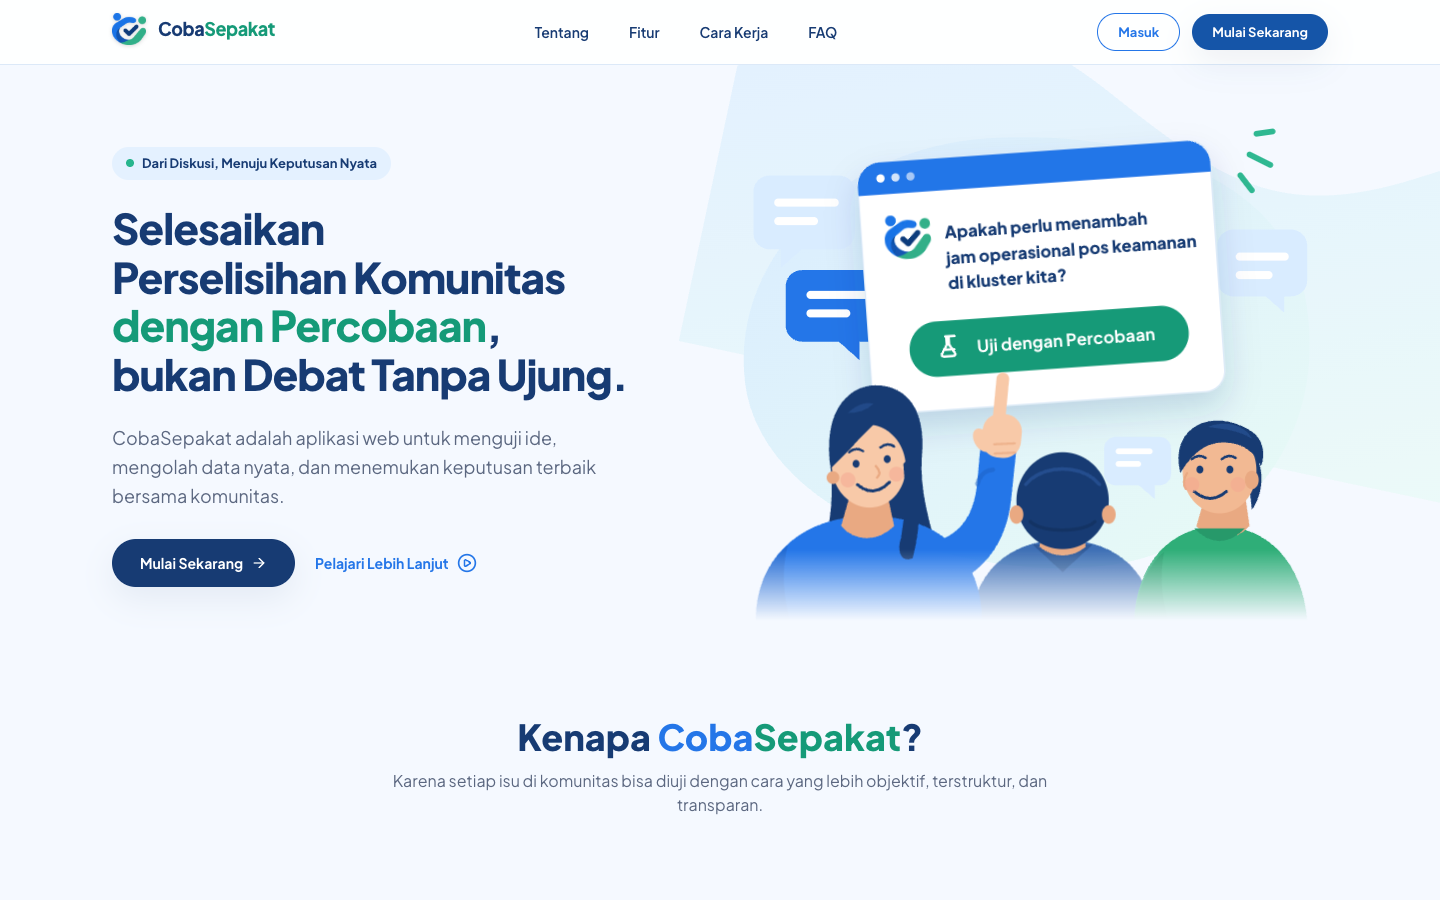
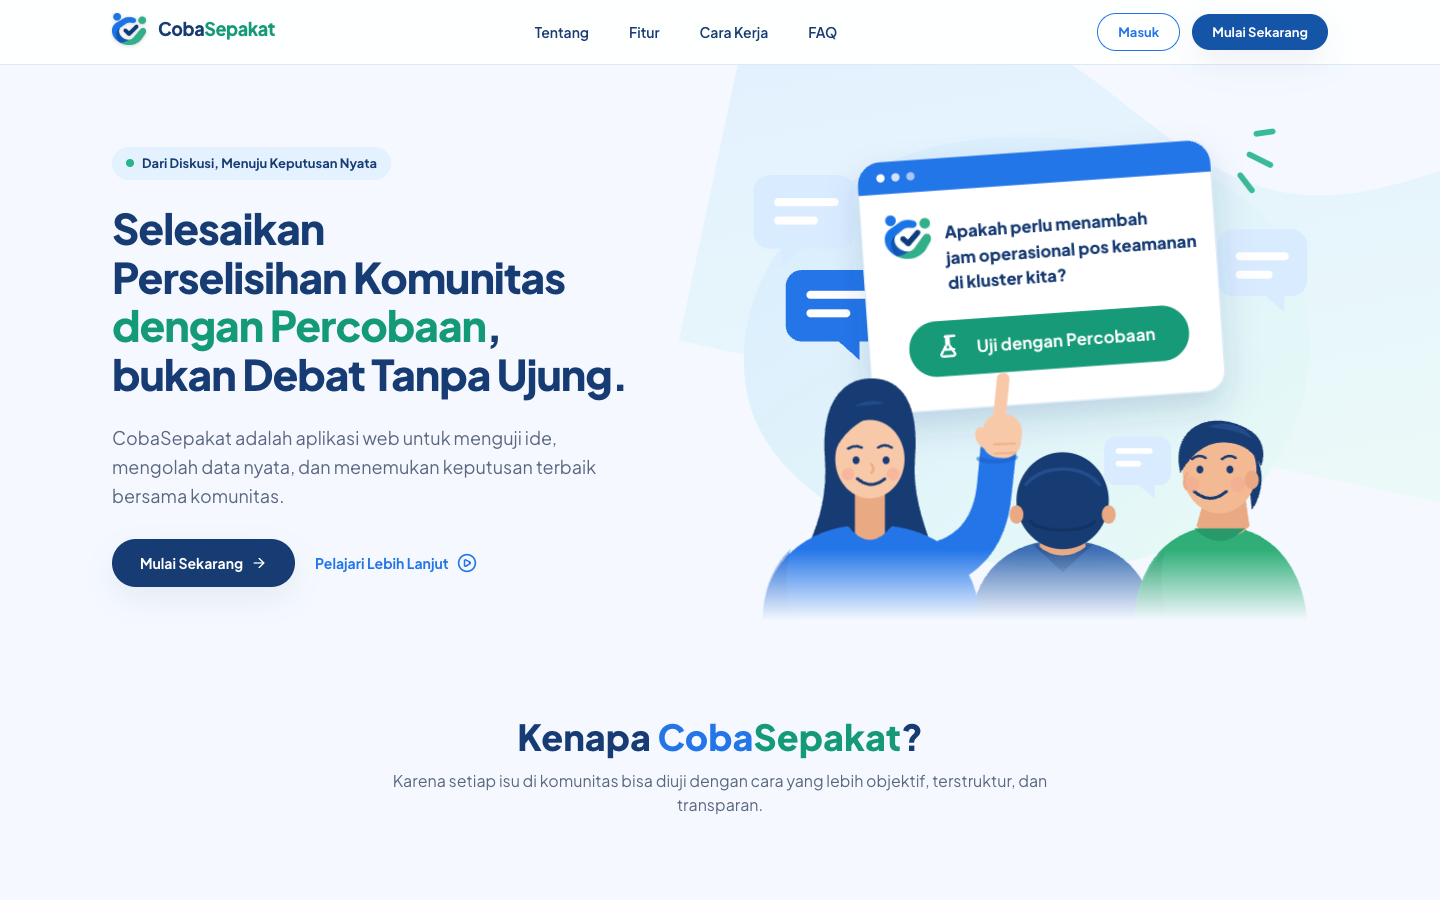
feat: gambar ulang ilustrasi cewek hero dan beri warna pada header README

diff --git a/src/components/company/HeroIllustration.tsx b/src/components/company/HeroIllustration.tsx
@@ -133,13 +133,12 @@ export const HeroIllustration: React.FC<{ className?: string }> = ({ className =
 
       {/* ── Woman (left): long side-parted hair, pointing up at the screen ── */}
       <g>
-        {/* back hair: one soft silhouette that tapers behind the shoulders */}
-        <path d="M88 300C84 256 106 236 128 236c26 0 44 20 40 62-2 28 6 56 16 90H80c10-34 12-60 8-88Z" fill={NAVY} />
-        {/* torso with a rounded neckline */}
-        <path d="M24 440c0-52 36-86 86-90h26c52 4 84 38 84 90Z" fill="#2476E8" />
-        <path d="M24 440c0-28 10-50 28-66-6 22-4 46 2 66Z" fill="#1B5FC4" opacity=".55" />
-        {/* neck */}
-        <path d="M106 330h32l6 28c-14 14-34 14-46 0Z" fill={SKIN_SHADE} />
+        {/* back hair: falls behind the shoulders */}
+        <path d="M84 300C80 250 100 230 124 230c26 0 42 20 38 70-2 28 6 52 14 74H70c10-22 16-46 14-74Z" fill={NAVY} />
+        {/* neck, then the torso with a scooped neckline over it */}
+        <path d="M110 322h26v50h-26Z" fill={SKIN_SHADE} />
+        <path d="M30 440c0-46 32-76 74-82q19 24 38 0c46 6 76 36 76 82Z" fill="#2476E8" />
+        <path d="M30 440c0-26 8-46 24-62-5 20-4 42 2 62Z" fill="#1B5FC4" opacity=".5" />
         {/* raised arm: sleeve grows out of the shoulder */}
         <motion.g
           style={{ transformBox: 'fill-box', transformOrigin: '0% 100%' }}
@@ -147,30 +146,26 @@ export const HeroIllustration: React.FC<{ className?: string }> = ({ className =
           transition={{ duration: 2.6, repeat: Infinity, ease: 'easeInOut' }}
         >
           <path d="M168 372c30-4 44-22 48-52l4-30c1-9 8-14 17-13 9 1 15 8 14 17l-6 40c-6 46-36 76-80 78Z" fill="#2476E8" />
-          <path d="M216 322c2-8 8-12 14-12" fill="none" stroke="#1B5FC4" strokeWidth="4" strokeLinecap="round" opacity=".5" />
-          {/* hand: curled fingers + pointing index + thumb */}
+          <path d="M218 300c8 4 24 4 32 0" fill="none" stroke="#1B5FC4" strokeWidth="4" strokeLinecap="round" opacity=".55" />
+          {/* hand: palm, curled fingers, pointing index, thumb */}
           <rect x="222" y="262" width="34" height="38" rx="15" fill={SKIN} transform="rotate(8 239 281)" />
           <rect x="234" y="226" width="11" height="48" rx="5.5" fill={SKIN} transform="rotate(8 239 250)" />
-          <ellipse cx="222" cy="284" rx="7" ry="11" fill={SKIN} transform="rotate(-28 222 284)" />
+          <ellipse cx="223" cy="282" rx="6.5" ry="10" fill={SKIN} transform="rotate(-24 223 282)" />
           <path d="M232 288h18M232 296h18" stroke={SKIN_SHADE} strokeWidth="2" strokeLinecap="round" opacity=".7" />
         </motion.g>
         {/* head */}
-        <ellipse cx="122" cy="306" rx="32" ry="36" fill={SKIN} transform="rotate(-6 122 306)" />
-        {/* front hair: side part, forehead stays open, tucked behind the ear on the left */}
-        <path d="M89 308C82 270 102 252 126 252c24 0 38 18 34 50-6-18-18-30-34-32-16 16-26 28-37 38Z" fill={NAVY} />
-        <path d="M126 252c-6 6-14 8-22 8 6-6 14-10 22-8Z" fill="#2A5599" opacity=".55" />
-        {/* lock over the right shoulder */}
-        <path d="M156 300c12 26 12 56 4 86-10 4-14-6-10-18 4-22 4-42 2-64Z" fill={NAVY} />
-        {/* ear */}
-        <circle cx="91" cy="316" r="5.5" fill={SKIN_SHADE} />
-        {/* face details: brows, eyes, nose, smile, blush */}
-        <path d="M105 294q6-5 12-1M132 290q6-5 12-1" fill="none" stroke={NAVY} strokeWidth="2.2" strokeLinecap="round" />
-        <ellipse cx="111" cy="304" rx="3" ry="3.4" fill={NAVY} />
-        <ellipse cx="138" cy="300" rx="3" ry="3.4" fill={NAVY} />
-        <path d="M128 306q6 6 1 10" fill="none" stroke={SKIN_SHADE} strokeWidth="2" strokeLinecap="round" />
-        <path d="M112 322q14 12 28-2" fill="none" stroke={NAVY} strokeWidth="2.6" strokeLinecap="round" />
-        <circle cx="104" cy="318" r="6.5" fill="#F4A590" opacity=".5" />
-        <circle cx="146" cy="313" r="6.5" fill="#F4A590" opacity=".5" />
+        <ellipse cx="123" cy="300" rx="30" ry="34" fill={SKIN} />
+        {/* front hair: smooth fringe swept from a side part, hair hugs both temples */}
+        <path d="M91 298C84 262 102 246 126 246c26 0 38 20 33 58-1-22-10-38-23-46C122 262 98 274 91 298Z" fill={NAVY} />
+        <path d="M110 254c8-5 18-6 26-2-8 0-18 2-26 2Z" fill="#2A5599" opacity=".6" />
+        {/* face: brows, eyes, nose, smile, blush */}
+        <path d="M104 291q6-4 12-1M130 290q6-4 12 0" fill="none" stroke={NAVY} strokeWidth="2.2" strokeLinecap="round" />
+        <ellipse cx="111" cy="301" rx="3" ry="3.4" fill={NAVY} />
+        <ellipse cx="137" cy="301" rx="3" ry="3.4" fill={NAVY} />
+        <path d="M124 304q4 5 0 8" fill="none" stroke={SKIN_SHADE} strokeWidth="2" strokeLinecap="round" />
+        <path d="M112 317q12 10 24 0" fill="none" stroke={NAVY} strokeWidth="2.6" strokeLinecap="round" />
+        <circle cx="104" cy="313" r="5.5" fill="#F4A590" opacity=".5" />
+        <circle cx="143" cy="313" r="5.5" fill="#F4A590" opacity=".5" />
       </g>
 
       {/* ── Man (right): green tee, facing the screen ── */}

diff --git a/README.md b/README.md
@@ -1,9 +1,6 @@
 <div align="center">
 
-<picture>
-  <source media="(prefers-color-scheme: dark)" srcset="public/brand/cobasepakat-horizontal-white-nobg.png">
-  <img src="public/brand/cobasepakat-horizontal-nobg.png" alt="CobaSepakat" width="300">
-</picture>
+<img src="docs/banner.svg" alt="CobaSepakat" width="100%">
 
 <h1>CobaSepakat</h1>
 
@@ -15,18 +12,18 @@
 </p>
 
 <p align="center">
-  <img src="https://img.shields.io/badge/React-19-61DAFB?logo=react&logoColor=white&labelColor=555" alt="React 19">
-  <img src="https://img.shields.io/badge/TypeScript-7-3178C6?logo=typescript&logoColor=white&labelColor=555" alt="TypeScript 7">
-  <img src="https://img.shields.io/badge/Vite-8-646CFF?logo=vite&logoColor=white&labelColor=555" alt="Vite 8">
-  <img src="https://img.shields.io/badge/Tailwind-4-06B6D4?logo=tailwindcss&logoColor=white&labelColor=555" alt="Tailwind 4">
-  <img src="https://img.shields.io/badge/Vercel-siap_deploy-000000?logo=vercel&logoColor=white&labelColor=555" alt="Vercel">
+  <img src="https://img.shields.io/badge/React-19-61DAFB?style=for-the-badge&logo=react&logoColor=white&labelColor=173B73" alt="React 19">
+  <img src="https://img.shields.io/badge/TypeScript-7-3178C6?style=for-the-badge&logo=typescript&logoColor=white&labelColor=173B73" alt="TypeScript 7">
+  <img src="https://img.shields.io/badge/Vite-8-646CFF?style=for-the-badge&logo=vite&logoColor=white&labelColor=173B73" alt="Vite 8">
+  <img src="https://img.shields.io/badge/Tailwind-4-06B6D4?style=for-the-badge&logo=tailwindcss&logoColor=white&labelColor=173B73" alt="Tailwind 4">
+  <img src="https://img.shields.io/badge/Vercel-siap_deploy-159A78?style=for-the-badge&logo=vercel&logoColor=white&labelColor=173B73" alt="Vercel">
 </p>
 
 **Resolusi perselisihan berbasis percobaan.** Alih-alih berdebat tanpa ujung soal fakta yang bisa diuji, warga menyepakati sebuah percobaan terukur, menjalankannya dalam waktu singkat, lalu memutuskan berdasarkan data.
 
 ![Landing page CobaSepakat](docs/screenshots/01-landing.png)
 
-## Cara kerjanya
+## 🧭 Cara kerjanya
 
 Setiap isu berjalan melalui sembilan tahap:
 
@@ -42,65 +39,65 @@ Setiap isu berjalan melalui sembilan tahap:
 
 Kriteria keberhasilan dikunci di muka, sehingga hasil tidak bisa ditafsirkan ulang sesudah data masuk.
 
-## Fitur utama
+## ✨ Fitur utama
 
-### Dasbor Ruang
+### 🏠 Dasbor Ruang
 Ringkasan isu, percobaan yang sedang berjalan, dan keputusan terbaru untuk satu ruang komunitas.
 
 ![Dasbor Ruang](docs/screenshots/02-dashboard.png)
 
-### Isu & Percobaan
+### 🧪 Isu & Percobaan
 Alur lengkap satu isu: dugaan berbeda beserta bukti pengubah pendapat, hasil gerbang kelayakan, desain percobaan, pelaksanaan, hingga evaluasi.
 
 ![Isu dan Percobaan](docs/screenshots/03-isu.png)
 
-### Dasbor Percobaan
+### 📈 Dasbor Percobaan
 Pusat kendali percobaan yang sedang berjalan: progres hari ke-N, aturan keputusan yang disepakati di muka, metrik lapangan terhadap garis dasar, dan status aturan berhenti darurat (guardrails).
 
 ![Dasbor Percobaan](docs/screenshots/10-percobaan.png)
 
-### Buka Isu Baru
+### ➕ Buka Isu Baru
 Warga dapat mengajukan pertanyaan keputusan baru langsung dari dasbor.
 
 ![Buka isu baru](docs/screenshots/09-isu-baru.png)
 
-### Pustaka Keputusan
+### 📚 Pustaka Keputusan
 Arsip keputusan resmi beserta dasar datanya, supaya perdebatan yang sama tidak diulang dari nol.
 
 ![Pustaka Keputusan](docs/screenshots/04-pustaka.png)
 
-### Templat Uji Coba
+### 📋 Templat Uji Coba
 Rancangan percobaan siap pakai untuk kasus yang sering muncul.
 
 ![Templat Uji Coba](docs/screenshots/05-templat.png)
 
-### Analitik Dampak
+### 📊 Analitik Dampak
 Waktu capai keputusan, kepatuhan terhadap kriteria, penerimaan pihak yang berseberangan, pergeseran pendapat, serta ekspor laporan CSV.
 
 ![Analitik Dampak](docs/screenshots/06-analitik.png)
 
-### Layanan Fasilitasi
+### 🤝 Layanan Fasilitasi
 Direktori fasilitator untuk isu yang butuh pendamping netral.
 
 ![Layanan Fasilitasi](docs/screenshots/07-fasilitator.png)
 
-### Log Audit
+### 🔍 Log Audit
 Jejak setiap perubahan penting agar proses tetap transparan dan bisa dipertanggungjawabkan.
 
 ![Log Audit](docs/screenshots/08-audit.png)
 
-### Responsif
+### 📱 Responsif
 Landing page dan demo tampil nyaman di layar ponsel.
 
 <img src="docs/screenshots/11-mobile.png" alt="Tampilan mobile" width="280">
 
-## Teknologi
+## 🛠 Teknologi
 
 React 19 · TypeScript · Vite · Tailwind CSS 4 · Motion · Lucide
 
 Aplikasi ini sepenuhnya sisi klien (SPA statis). Tidak ada backend, database, atau API key; data demo disimpan di `localStorage` peramban.
 
-## Menjalankan secara lokal
+## 🚀 Menjalankan secara lokal
 
 Prasyarat: Node.js 20 atau lebih baru.
 
@@ -111,7 +108,7 @@ npm run build    # hasil build ke dist/
 npm run lint     # pengecekan tipe
 ```
 
-## Deploy ke Vercel
+## ▲ Deploy ke Vercel
 
 Vercel mendeteksi Vite secara otomatis. Impor repositori ini, lalu biarkan pengaturan bawaan:
 
@@ -122,6 +119,6 @@ Vercel mendeteksi Vite secara otomatis. Impor repositori ini, lalu biarkan penga
 | Output Directory | `dist` |
 | Environment Variables | tidak ada |
 
-## Author & License
+## 👤 Author & License
 
 Created by Vassel Goleyu. Copyright (c) 2026 Vassel Goleyu. All rights reserved.
